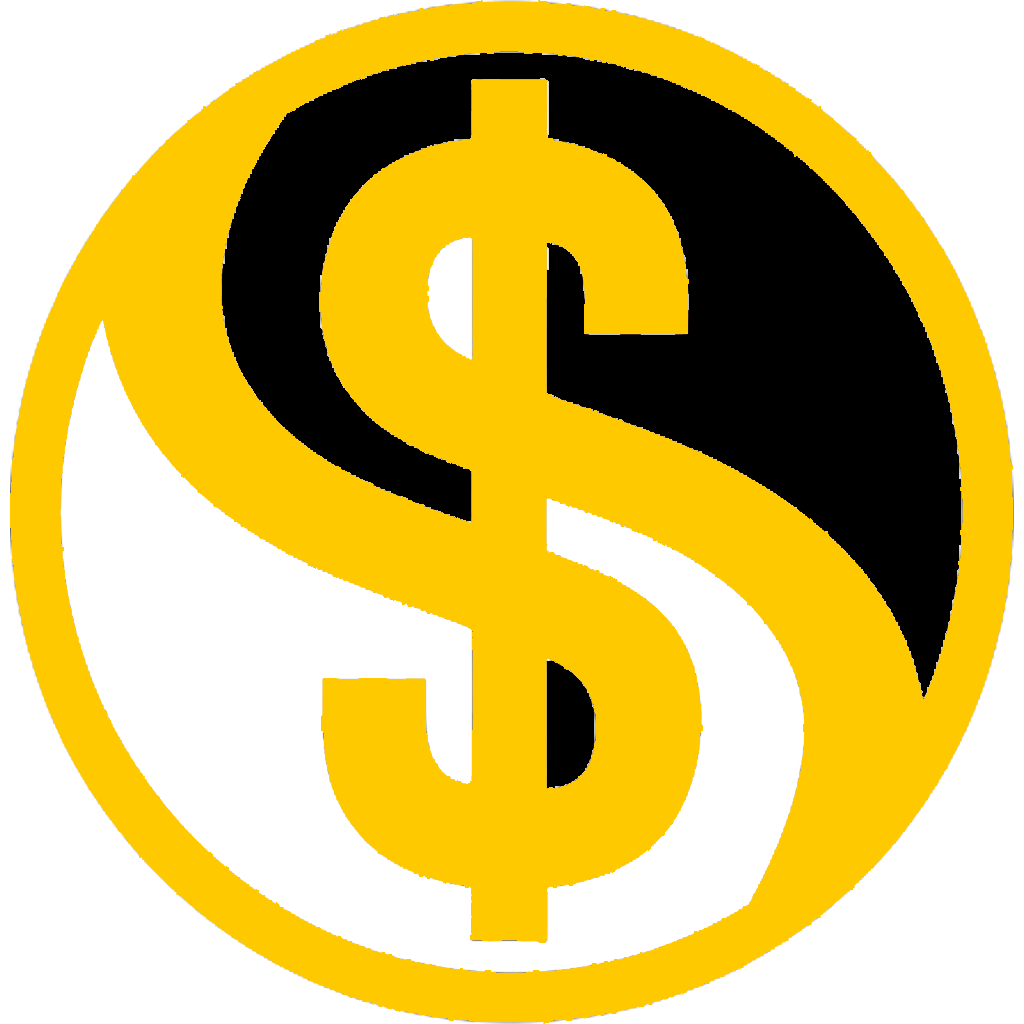
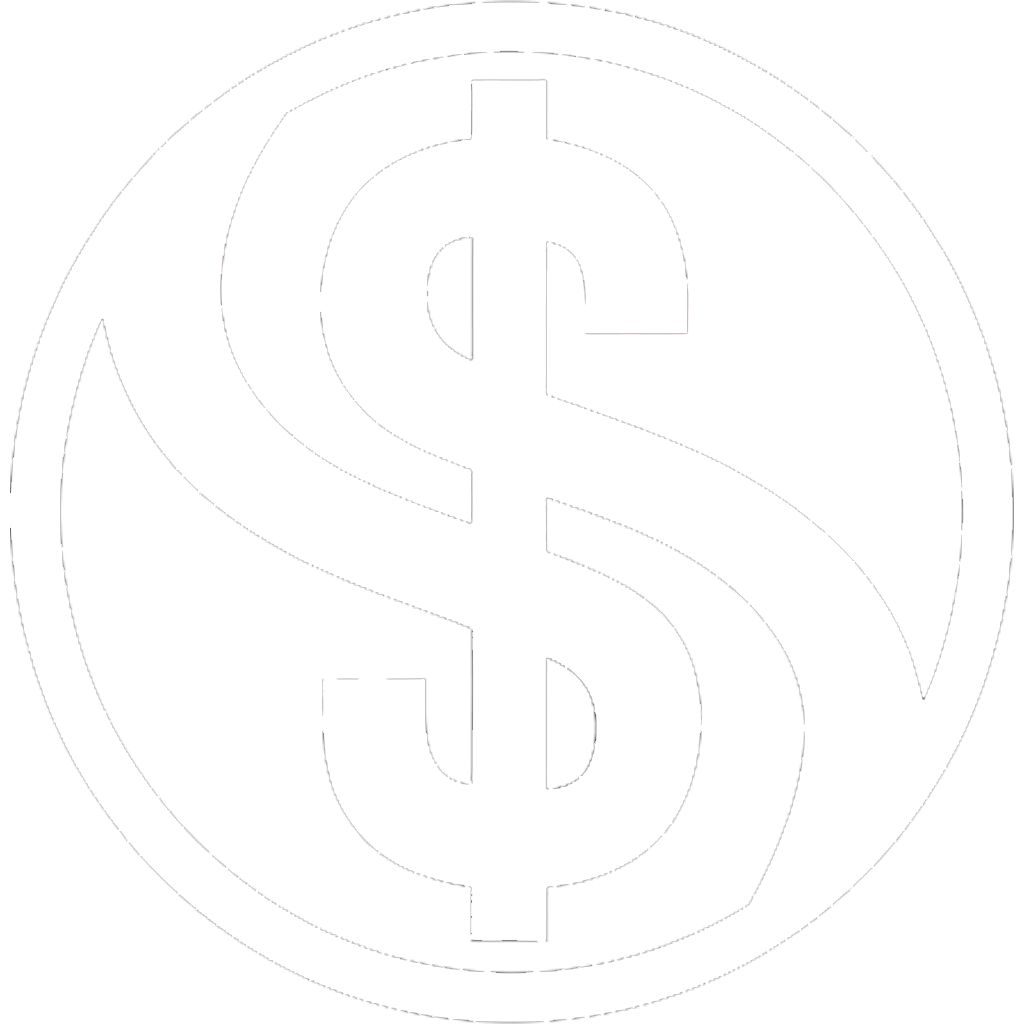
d

diff --git a/inicio.html b/inicio.html
@@ -15,7 +15,7 @@
         
         <button class="btn_icon_header" onclick="toggleSidebar()">☰</button>
         <div class="logo_header">
-            <a href="inicio.html"><img src="imagens/s-salmoneus.png" alt="logo" id="img_header_logo"></a>
+            <a href="inicio.html"><img src="imagens/logo.loja.png" alt="logo" id="img_header_logo"></a>
         </div>
 
         <div class="navigation_header" id="navigation_header">
